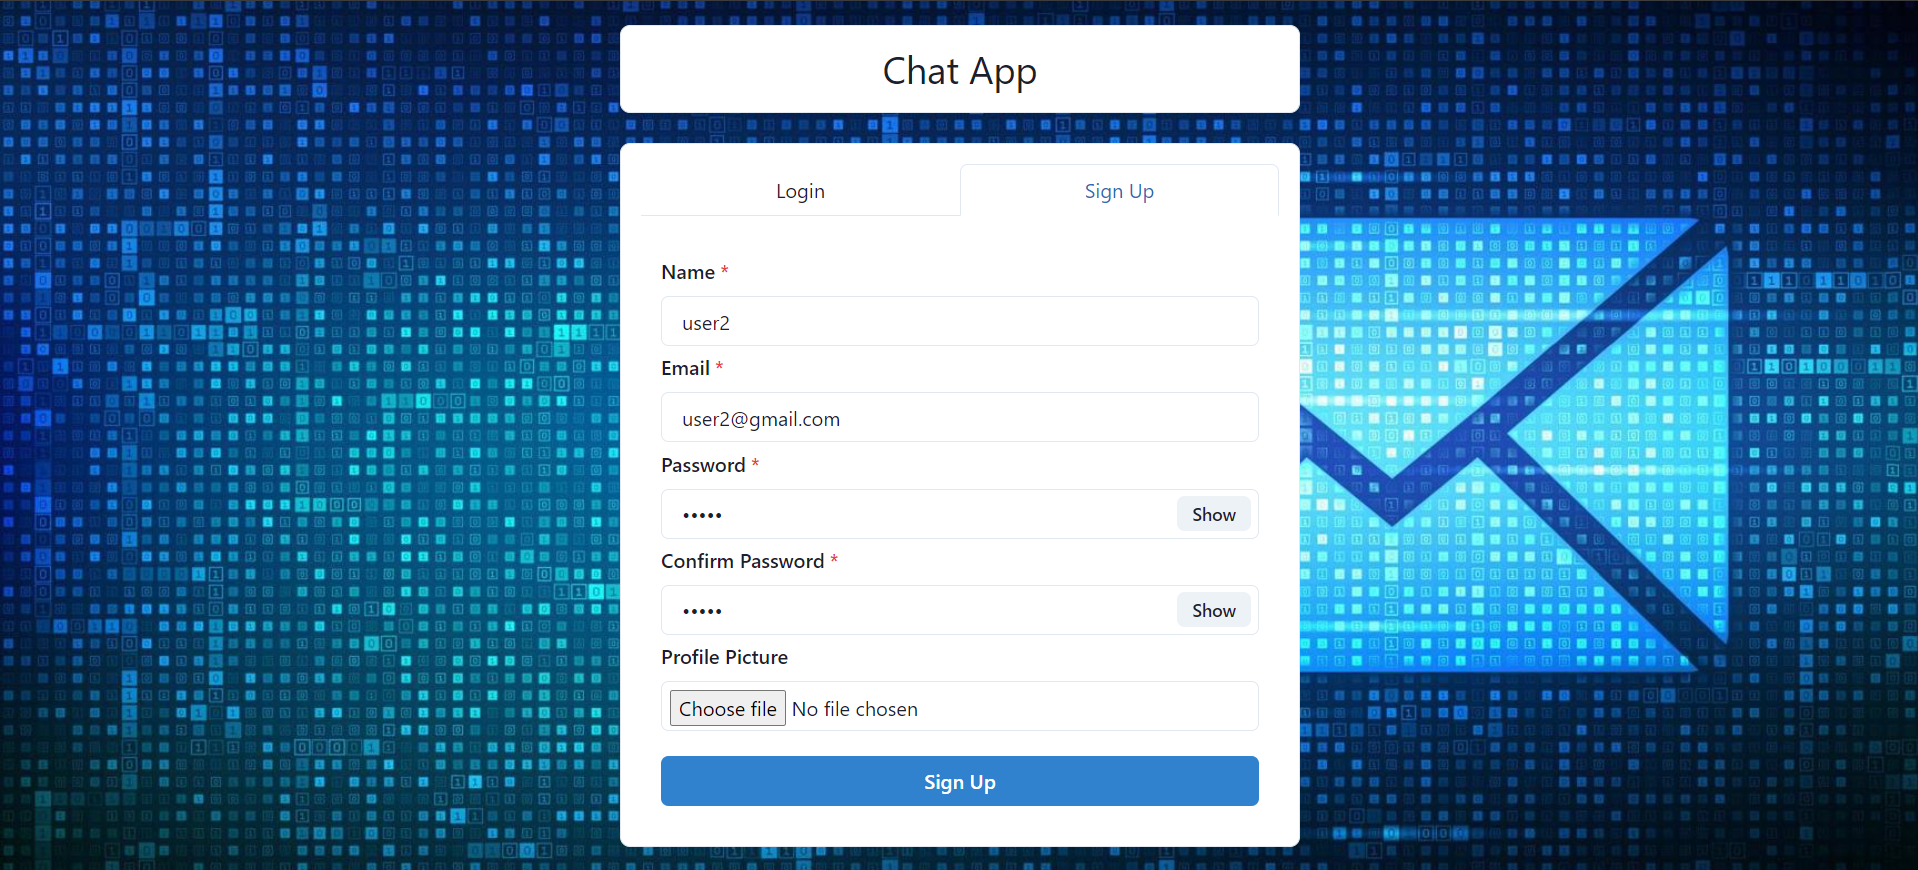
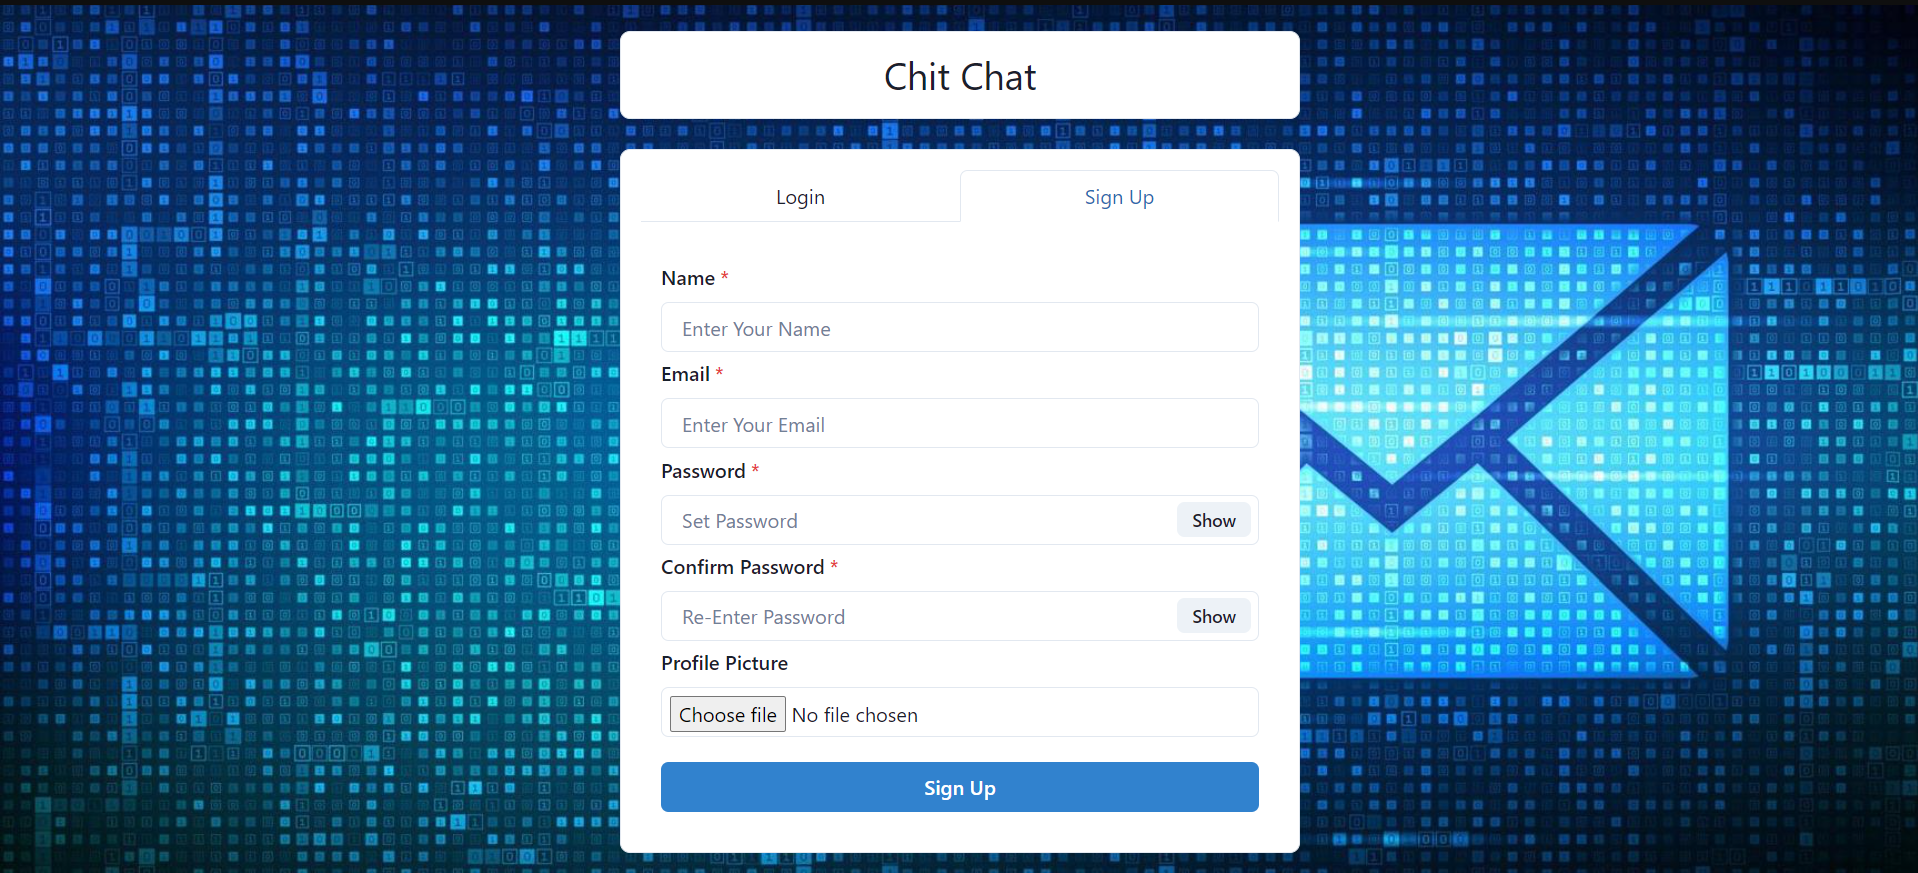
Change Project Name

diff --git a/frontend/src/pages/HomePage.jsx b/frontend/src/pages/HomePage.jsx
@@ -41,7 +41,7 @@ export default function HomePage() {
           borderRadius="lg"
           borderWidth="1px"
         >
-          <Text fontSize="3xl">Chat App</Text>
+          <Text fontSize="3xl">Chit Chat</Text>
         </Box>
         <Box
           bg="white"

diff --git a/frontend/src/components/SideDrawer.jsx b/frontend/src/components/SideDrawer.jsx
@@ -148,7 +148,7 @@ export default function SideDrawer() {
         </Tooltip>
 
         <Text fontSize="3xl" fontWeight="bold">
-          Chat App
+          Chit Chat
         </Text>
 
         <div>

diff --git a/README.md b/README.md
@@ -1,0 +1,26 @@
+# ChatApp
+
+## Overview
+
+Chit Chat is a versatile and user-friendly real-time messaging application designed to facilitate seamless communication between individuals and groups. Whether you're looking to chat one-on-one or collaborate with multiple users in a group setting, Chit Chat has you covered.
+
+## Preview
+
+![Alt text](./project_images/image2.png)
+![Alt text](./project_images/image3.png)
+Furthur images present in ./project_images
+
+## Key Features
+
+- **Single Chat and Group Chat**: Engage in one-on-one conversations or create and participate in group discussions with multiple users.
+- **Add and Remove Users**: Group chat administrators can easily add new users to the conversation and remove existing participants as needed.
+- **Register and Login Functionality**: Users can register for an account with their email and password, and securely log in to access the chat application.
+- **Password Hashing with bcrypt**: User passwords are securely hashed using bcrypt, ensuring protection against unauthorized access and safeguarding user data.
+- **User Authentication with JWT**: Authentication is implemented using JSON Web Tokens (JWT), providing a secure and efficient method for verifying user identities and authorizing access to chat functionalities.
+- **Instant Messaging**: Send and receive messages in real-time using socket.io, fostering seamless communication between users.
+- **Real Time Notifications**: Stay informed and engaged with real-time notifications that keep you updated on new messages, mentions, and activities within the chat application.
+
+## Contribute:
+
+Found a bug or have an enhancement in mind?
+Contribute to the project by opening issues and pull requests.
